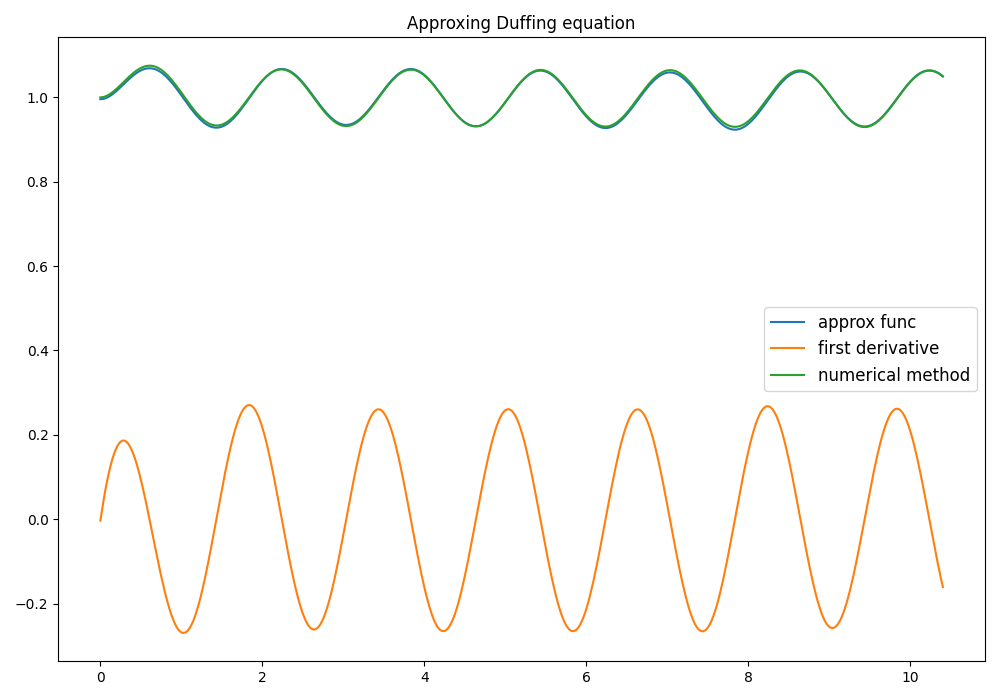
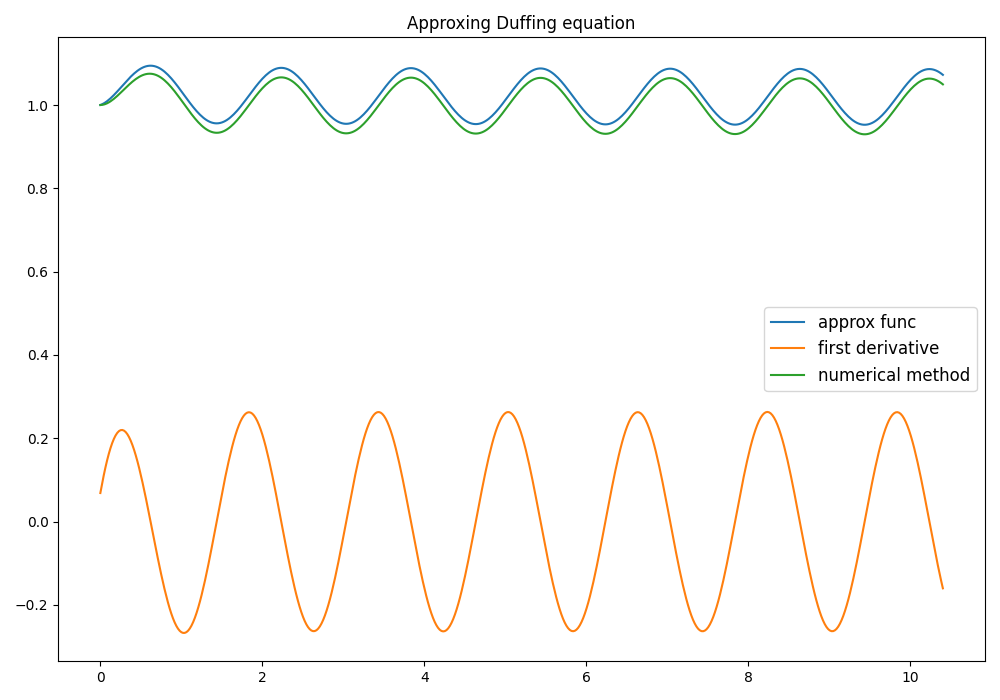
refract

diff --git a/src/Neural_network(PINN).py b/src/Neural_network(PINN).py
@@ -40,7 +40,7 @@ dots = 500
 
 loss_all = np.zeros(epohs)
 loss_all_num = np.zeros(epohs)
-lambd = 1
+lambd = 0.001
 # Используем доступные графические процессоры
 device = torch.device('cuda' if torch.cuda.is_available() else 'cpu')
 
@@ -73,44 +73,6 @@ class Neural(nn.Module):
 
     def forward(self, x):
         return self.layers_stack(x)
-
-def draw_approx(net, t):
-    fs = 12
-    # x = net.forward(t)
-    x = PINN(t).to(device)
-    z = torch.autograd.grad(x, t, torch.ones_like(t), create_graph=True, retain_graph=True)[0]
-    plt.plot(t.detach().numpy(), x.detach().numpy(), '-', label=r"approx func")
-    plt.plot(t.detach().numpy(), z.detach().numpy(), '-', label=r"first derivative")
-    plt.plot(t.detach().numpy(), b.y[0, :], '-', label=r"numerical method")
-    # plt.plot(b[2], b[0], '-', label=r"numerical_approx")
-    plt.legend(fontsize=fs)
-    plt.title('Approxing Duffing equation')
-    plt.tight_layout()
-    plt.savefig(r"./figs/approx_Duffing.png")
-    plt.show()
-
-def draw_history(net, t):
-    fs = 12
-    plt.plot(loss_all, label=r'Total Loss')
-    plt.plot(loss_all_num, label=r'Loss With Numeral')
-
-    ax=plt.gca()
-    ax.set_yscale('log')
-    plt.grid(which='major', linestyle='-')
-    plt.grid(which='minor', linestyle='--')
-    plt.xlim(0, epohs)
-    plt.ylim(1e-5, 1e3)
-    plt.xticks(fontsize=fs)
-    plt.yticks(fontsize=fs)
-    ax.tick_params(axis='both',direction='in')
-
-    plt.legend(fontsize=fs)
-    plt.xlabel('Iteration count', fontsize=fs)
-    plt.ylabel('Loss', fontsize=fs)
-    plt.title('Loss while training')
-    plt.tight_layout()
-    plt.savefig(r"./figs/history_Duffing.png")
-    plt.show()
 
 # Создание модели PINN и её обучение
 PINN = Neural().to(device)
@@ -170,6 +132,44 @@ train()
 
 torch.save(PINN.state_dict(), r'./weights/weights_PINN_Duffing_equation.pth')
 # filescolab.download("weights_PINN_harm_oscil_3exp.pth")
+
+def draw_approx(net, t):
+    fs = 12
+    # x = net.forward(t)
+    x = PINN(t).to(device)
+    z = torch.autograd.grad(x, t, torch.ones_like(t), create_graph=True, retain_graph=True)[0]
+    plt.plot(t.detach().numpy(), x.detach().numpy(), '-', label=r"approx func")
+    plt.plot(t.detach().numpy(), z.detach().numpy(), '-', label=r"first derivative")
+    plt.plot(t.detach().numpy(), b.y[0, :], '-', label=r"numerical method")
+    # plt.plot(b[2], b[0], '-', label=r"numerical_approx")
+    plt.legend(fontsize=fs)
+    plt.title('Approxing Duffing equation')
+    plt.tight_layout()
+    plt.savefig(r"./figs/approx_Duffing.png")
+    plt.show()
+
+def draw_history(net, t):
+    fs = 12
+    plt.plot(loss_all, label=r'Total Loss')
+    plt.plot(loss_all_num, label=r'Loss With Numeral')
+
+    ax=plt.gca()
+    ax.set_yscale('log')
+    plt.grid(which='major', linestyle='-')
+    plt.grid(which='minor', linestyle='--')
+    plt.xlim(0, epohs)
+    plt.ylim(1e-5, 1e3)
+    plt.xticks(fontsize=fs)
+    plt.yticks(fontsize=fs)
+    ax.tick_params(axis='both',direction='in')
+
+    plt.legend(fontsize=fs)
+    plt.xlabel('Iteration count', fontsize=fs)
+    plt.ylabel('Loss', fontsize=fs)
+    plt.title('Loss while training')
+    plt.tight_layout()
+    plt.savefig(r"./figs/history_Duffing.png")
+    plt.show()
 
 draw_approx(PINN, t)
 draw_history(PINN, t)
